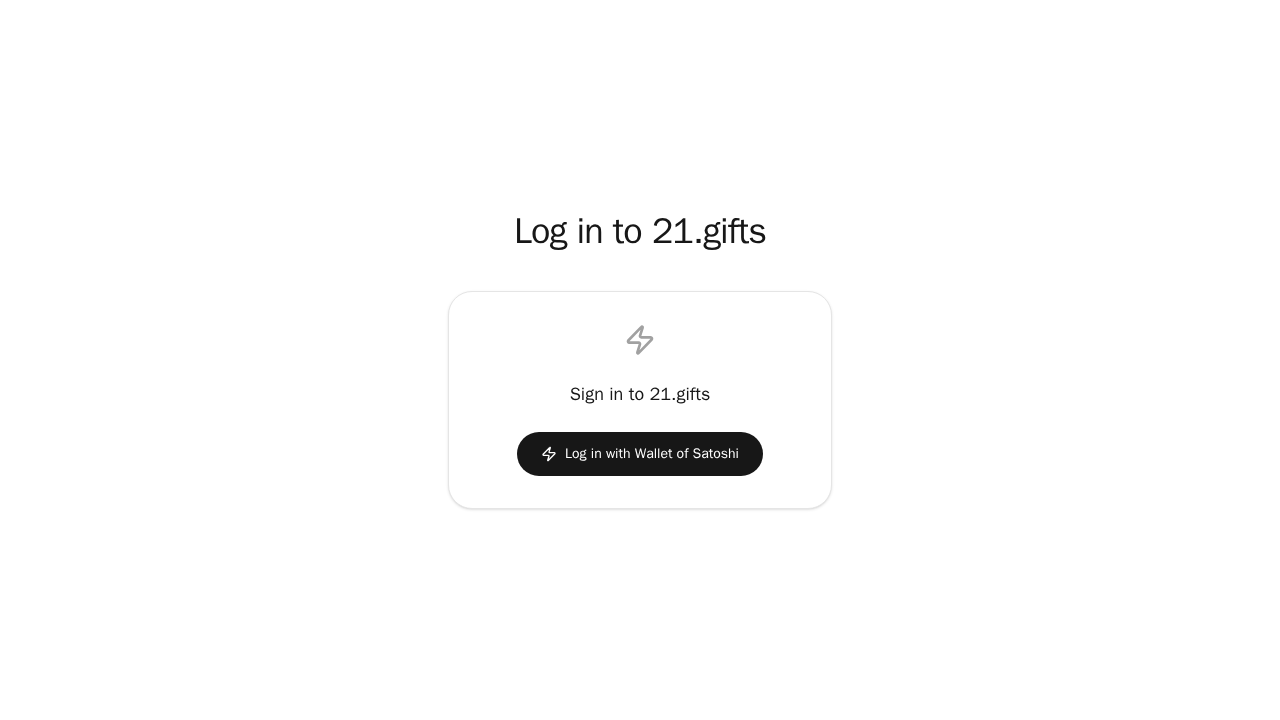
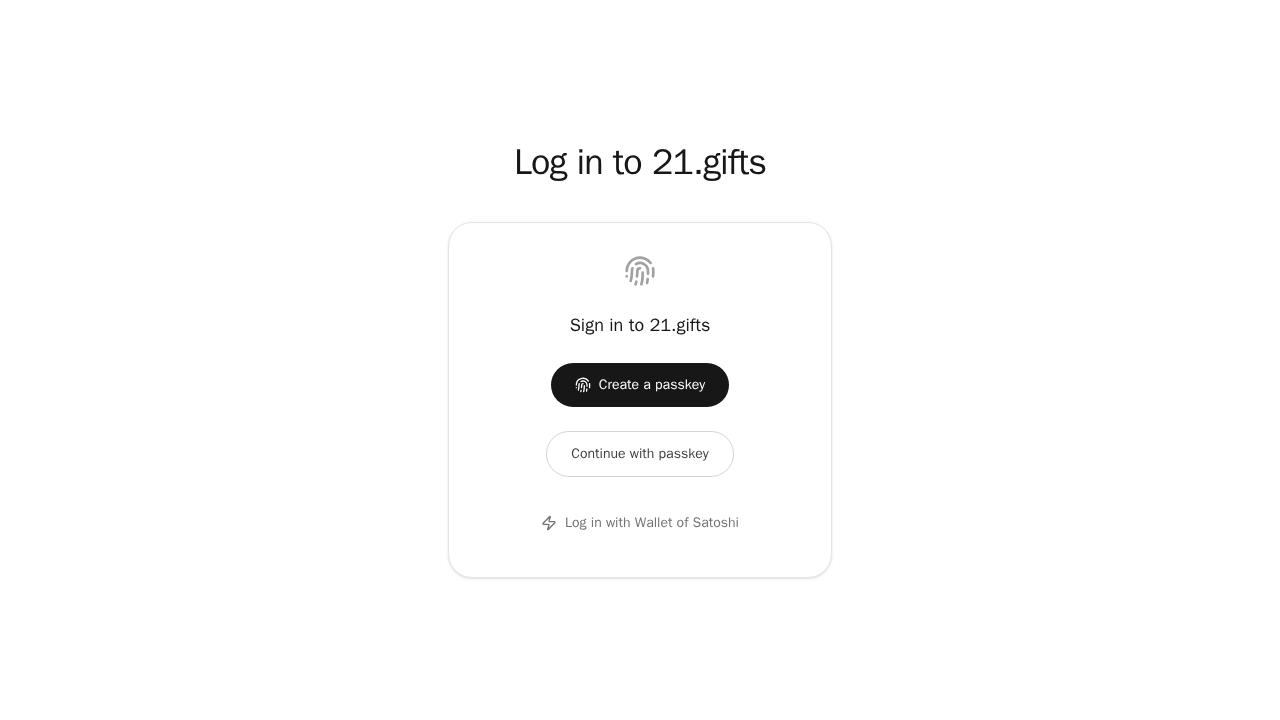
Recapture passkey-first login visuals and cover pubKeyCredParams
Linux Chromium idle login now shows Create/Continue passkey plus Wallet
of Satoshi. The creation-options helper is tested with an explicit
algorithm list as well as the default ES256 param.

diff --git a/src/__tests__/lib/webauthn-browser.test.ts b/src/__tests__/lib/webauthn-browser.test.ts
@@ -37,6 +37,22 @@ describe('creationOptionsFromJSON', () => {
     expect(options.timeout).toBe(60_000);
     expect(options.attestation).toBe('none');
     expect(options.authenticatorSelection?.residentKey).toBe('required');
+    expect(options.pubKeyCredParams).toEqual([{ type: 'public-key', alg: -7 }]);
+  });
+
+  it('keeps an explicit pubKeyCredParams list', () => {
+    const params = [{ type: 'public-key' as const, alg: -257 }];
+    const options = creationOptionsFromJSON({
+      challenge: bytesToBase64Url(new Uint8Array([9, 8, 7])),
+      rp: { id: 'localhost', name: '21.gifts' },
+      user: {
+        id: bytesToBase64Url(new Uint8Array([1, 2])),
+        name: 'n',
+        displayName: 'd',
+      },
+      pubKeyCredParams: params,
+    });
+    expect(options.pubKeyCredParams).toEqual(params);
   });
 
   it('omits optional creation fields when absent', () => {
